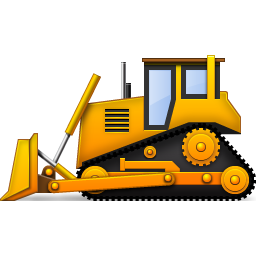
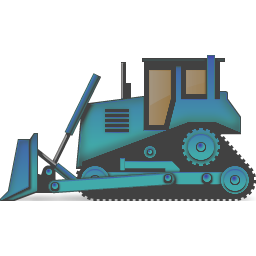
Added resume game button and tweaked bulldozer stuff

diff --git a/src/event.c b/src/event.c
@@ -15,7 +15,7 @@ void menuEvents(Stage *stage){
 				stage -> alive = false;
 				break;
 			}
-
+		
 			}
 			break;
 		}
@@ -35,6 +35,13 @@ void menuEvents(Stage *stage){
 				initTiles(stage);
 				stage -> needsUpdate = true;
 				stage -> currState = GameMode;
+			}
+			//Resume game button
+			if (stage -> currState == EscMenuMode) {
+				if ((mouseX > ((stage -> screenWidth / 2) - NEWGAMEBUTTONXOFFSET)) && (mouseX < ((stage -> screenWidth / 2) - NEWGAMEBUTTONXOFFSET) + 200) && (mouseY > (stage -> screenHeight / 2) - (stage -> screenHeight / 16)) && (mouseY < ((stage -> screenHeight / 2) - (stage -> screenHeight / 16) + 40))) {
+					stage -> currState = GameMode;
+					stage -> needsUpdate = true;
+				}
 			}
 
 
@@ -64,12 +71,25 @@ void gameEvents(Stage *stage){
 		case SDL_KEYDOWN: {
 			switch (event.key.keysym.sym){
 			case SDLK_ESCAPE: {
-				//Go back to main menu
-				stage -> currState = MenuMode;
+				//Go back to main menu or deselect current staged event i.e. unclick button
+				if (stage -> stagedEvent == None){
+					stage -> currState = EscMenuMode;
+				} else {
+					stage -> stagedEvent = None;
+				}
 				stage -> needsUpdate = true;
 				break;
 			}
-
+			//Bulldozer Hotkey
+			case SDLK_b: {
+				if (stage -> stagedEvent != Bulldozer){
+					stage -> stagedEvent = Bulldozer;
+				} else if (stage -> stagedEvent == Bulldozer) {
+					stage -> stagedEvent = None;
+				}
+				stage -> needsUpdate = true;
+				break;
+			}
 			}
 			break;
 		}
@@ -78,8 +98,12 @@ void gameEvents(Stage *stage){
 			i32 mouseY;
 			SDL_GetMouseState(&mouseX, &mouseY);
 			//This is messy sorry. Haven't /yet/ figured out a clean way to fix it.
+			//Ignore if they click within the legend
+			if ((mouseY > stage -> screenHeight - (2 * (stage -> screenHeight / TILENUM))) && (mouseY < stage -> screenHeight)) {
+				break;
+			}
 			//Bulldozer button
-			if (mouseX > (WINWIDTH - (WINWIDTH / TILENUM)) && (mouseX < (WINWIDTH - (WINWIDTH / TILENUM) + (WINWIDTH / TILENUM))) && (mouseY > (WINHEIGHT - 2 * (WINHEIGHT / TILENUM))) && (mouseY < (WINHEIGHT - 2 * (WINHEIGHT / TILENUM) + (WINHEIGHT / TILENUM)))) {
+			if (mouseX > (stage -> screenWidth - (stage -> screenWidth / TILENUM)) && (mouseX < (stage -> screenWidth - (stage -> screenWidth / TILENUM) + (stage -> screenWidth / TILENUM))) && (mouseY > (stage -> screenHeight - 2 * (stage -> screenHeight / TILENUM))) && (mouseY < (stage -> screenHeight - 2 * (stage -> screenHeight / TILENUM) + (stage -> screenHeight / TILENUM)))) {
 				if (stage -> stagedEvent == None){
 					stage -> stagedEvent = Bulldozer;
 				// Else if required for when there are more than two states of stagedEvent

diff --git a/src/game.c b/src/game.c
@@ -14,10 +14,10 @@ void initTiles(Stage *stage) {
 	}
 	for (i32 i = 0; i < TILENUM; ++i){
 		for (i32 j = 0; j < TILENUM; ++j){
-			stage -> game -> tiles[i][j].tile.x = ((WINWIDTH / TILENUM) * i);
-			stage -> game -> tiles[i][j].tile.y = ((WINHEIGHT / TILENUM) * j);
-			stage -> game -> tiles[i][j].tile.w = (WINWIDTH / TILENUM);
-			stage -> game -> tiles[i][j].tile.h = (WINHEIGHT / TILENUM);
+			stage -> game -> tiles[i][j].tile.x = ((stage -> screenWidth / TILENUM) * i);
+			stage -> game -> tiles[i][j].tile.y = ((stage -> screenHeight / TILENUM) * j);
+			stage -> game -> tiles[i][j].tile.w = (stage -> screenWidth / TILENUM);
+			stage -> game -> tiles[i][j].tile.h = (stage -> screenHeight / TILENUM);
 		}
 	}
 }
@@ -70,21 +70,26 @@ void renderLegend(Stage *stage){
 
 		SDL_Rect legend;
 		legend.x = 0;
-		legend.y = WINHEIGHT - (2 * WINHEIGHT / TILENUM);
-		legend.w = WINWIDTH;
-		legend.h = (2 * WINHEIGHT / TILENUM);
+		legend.y = stage -> screenHeight - (2 * (stage -> screenHeight / TILENUM));
+		legend.w = stage -> screenWidth;
+		legend.h = (2 * (stage -> screenHeight / TILENUM));
 		SDL_RenderCopy(stage -> renderer, legTex, NULL, &legend);
 
 		//Render Bulldozer
-		SDL_Surface *bullSur = IMG_Load("assets/bulldozer.png");
+		SDL_Surface *bullSur;
+		if (stage -> stagedEvent == None) {
+			bullSur = IMG_Load("assets/bulldozer.png");
+		} else {
+			bullSur = IMG_Load("assets/bulldozerDark.png");
+		}
 		SDL_Texture *bullTex = SDL_CreateTextureFromSurface(stage -> renderer, bullSur);
 		SDL_FreeSurface(bullSur);
 
 		SDL_Rect bullButton;
-		bullButton.x = (WINWIDTH - (WINWIDTH / TILENUM));
-		bullButton.y = (WINHEIGHT - 2 * (WINHEIGHT / TILENUM));
-		bullButton.w = (WINWIDTH / TILENUM);
-		bullButton.h = (WINHEIGHT / TILENUM);
+		bullButton.x = (stage -> screenWidth - (stage -> screenWidth / TILENUM));
+		bullButton.y = (stage -> screenHeight - 2 * (stage -> screenHeight / TILENUM));
+		bullButton.w = (stage -> screenWidth / TILENUM);
+		bullButton.h = (stage -> screenHeight / TILENUM);
 		SDL_RenderCopy(stage -> renderer, bullTex, NULL, &bullButton);
 
 

diff --git a/src/menu.c b/src/menu.c
@@ -31,6 +31,11 @@ void renderMenu(Stage *stage){
 		SDL_Texture *newGameTex = SDL_CreateTextureFromSurface(stage -> renderer, newGameSur);
 		SDL_FreeSurface(newGameSur);
 
+		//Load texture for resume button
+		SDL_Surface *resumeSur = IMG_Load("assets/resume.png");
+		SDL_Texture *resumeTex = SDL_CreateTextureFromSurface(stage -> renderer, resumeSur);
+		SDL_FreeSurface(resumeSur);
+
 
 		//Create rectangle for exit button
 		SDL_Rect exitButton;
@@ -47,9 +52,20 @@ void renderMenu(Stage *stage){
 		newGameButton.w = 200;
 		newGameButton.h = 40;
 		SDL_RenderCopy(stage -> renderer, newGameTex, NULL, &newGameButton);
+
+		//Resume Button
+		if (stage -> currState == EscMenuMode) {
+			SDL_Rect resumeButton;
+			resumeButton.x = ((width / 2) - NEWGAMEBUTTONXOFFSET);
+			resumeButton.y = (height / 2) - (height / 16);
+			resumeButton.w = 200;
+			resumeButton.h = 40;
+			SDL_RenderCopy(stage -> renderer, resumeTex, NULL, &resumeButton);
+		}
 		
 		SDL_DestroyTexture(tex);
 		SDL_DestroyTexture(exitTex);
+		SDL_DestroyTexture(resumeTex);
 		
 		stage -> needsUpdate = false;
 		SDL_RenderPresent(stage -> renderer);

diff --git a/src/type.h b/src/type.h
@@ -22,7 +22,8 @@ typedef u8 bool;
 //Universal Truths
 #define EXITBUTTONXOFFSET 40
 #define NEWGAMEBUTTONXOFFSET 90
-#define WINHEIGHT 480
-#define WINWIDTH 640
+#define WINHEIGHT (480)
+#define WINWIDTH (640)
+
 #define TILENUM 16
 

diff --git a/src/main.c b/src/main.c
@@ -21,6 +21,11 @@ int main(){
 			menuEvents(stage);
 			break;
 		}
+		case EscMenuMode: {
+			renderMenu(stage);
+			menuEvents(stage);
+			break;
+		}
 		case GameMode: {
 			renderGame(stage);
 			gameEvents(stage);

diff --git a/src/stage.h b/src/stage.h
@@ -4,12 +4,14 @@
 
 typedef enum State{
 	MenuMode,
+	EscMenuMode,
 	GameMode,
 } State;
 
 typedef enum TileType {
 	Normal,
 	Dark,
+	Residential,
 } TileType;
 
 typedef enum StagedEvent {

diff --git a/README.md b/README.md
@@ -1,5 +1,5 @@
 # Tiles (Under Construction)
-Tiles is a simple city builder, in the same vein as games like Sim City 3000.
+Tiles is a simple city builder, in the same vein as games like Sim City 2000.
 
 
 # Compiling
